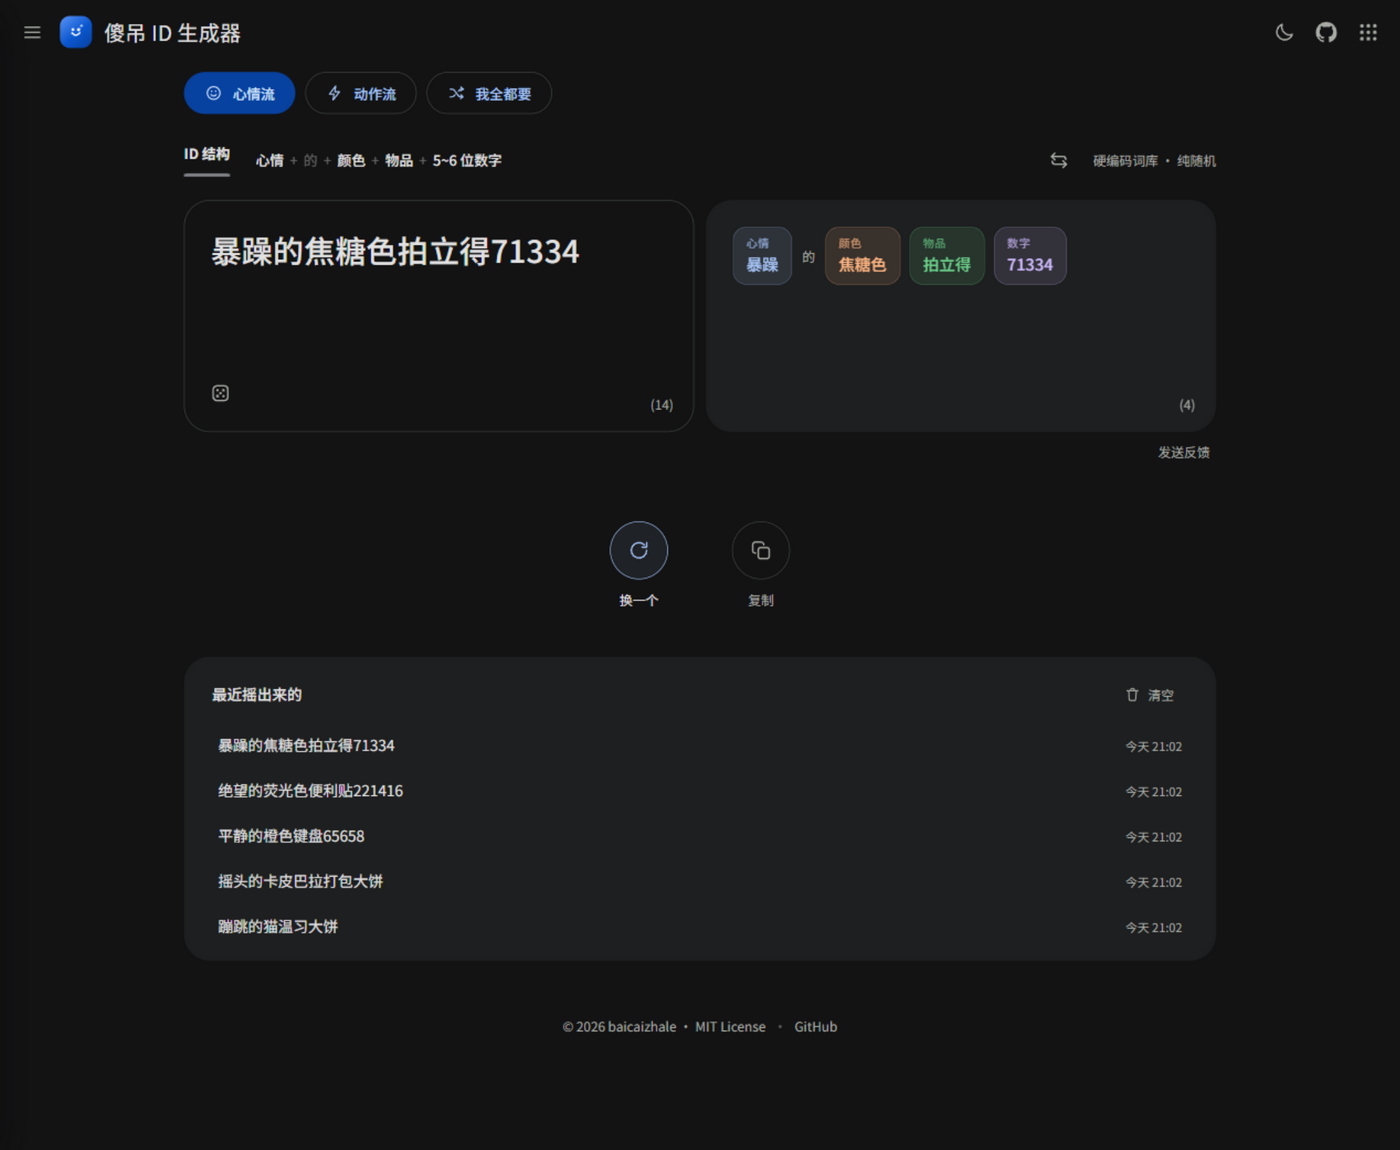
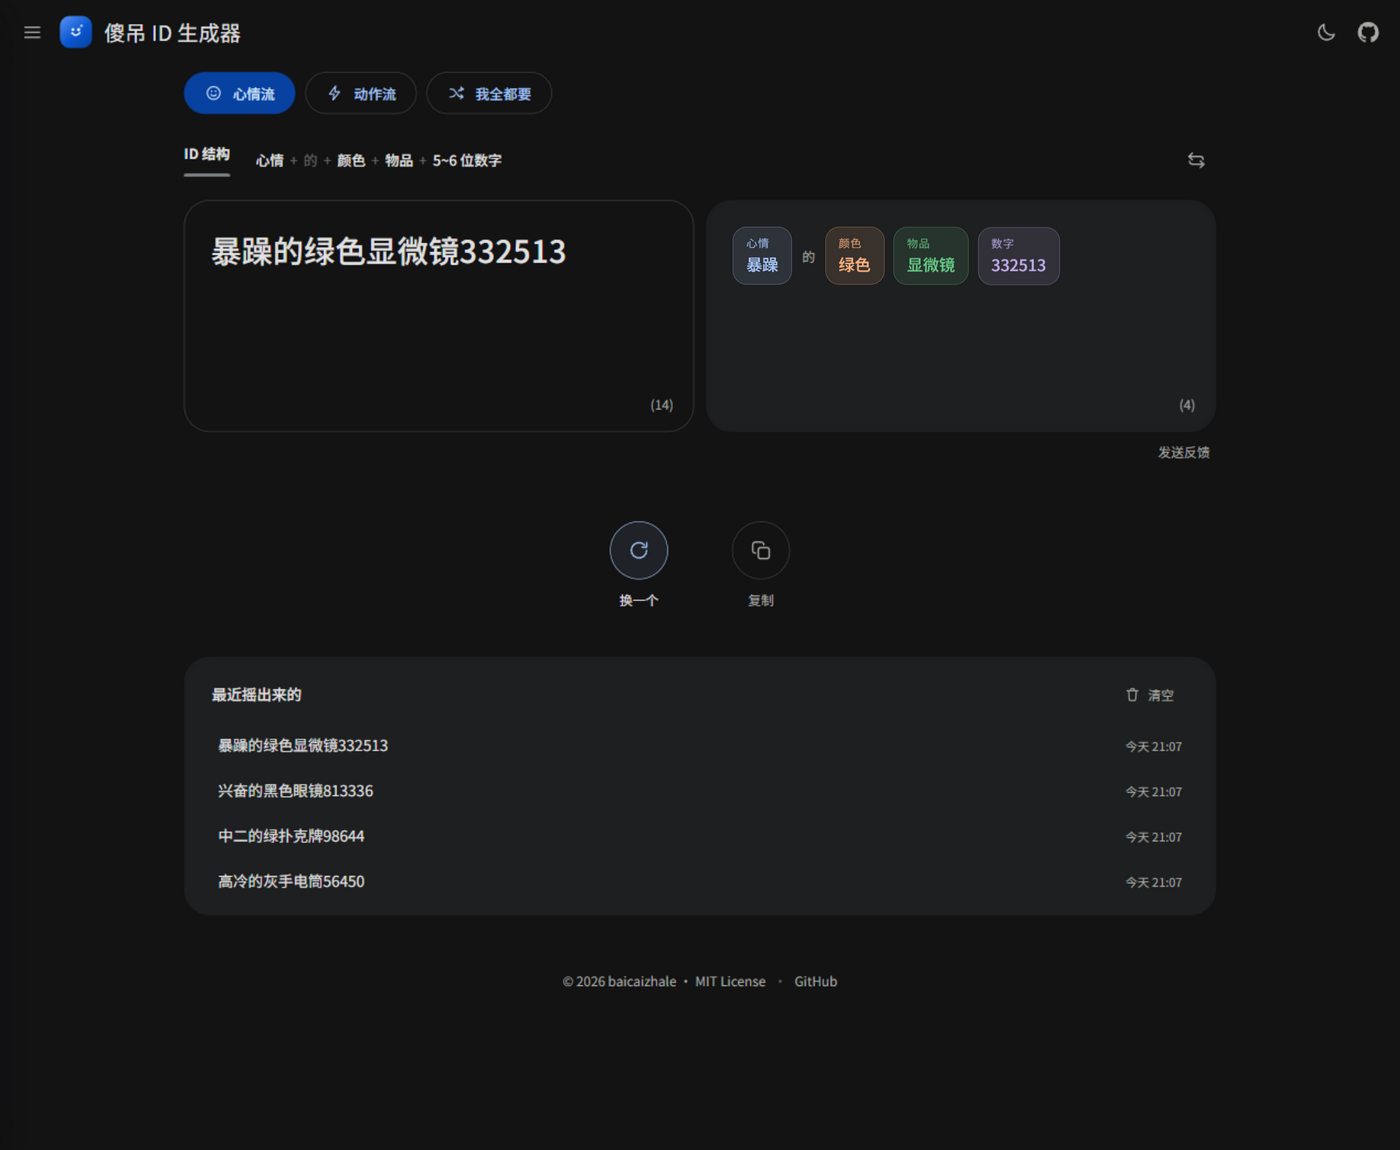
docs: 重拍预览图，README 同步历史条数与重摇方式

diff --git a/README.md b/README.md
@@ -72,9 +72,9 @@
 ## 特性
 
 - 🎲 **三个胶囊**：心情流 / 动作流 / 我全都要（每次从两种格式里随机抽一种）
-- ⌨ **顺手就能重摇**：点结果卡片、点骰子、按 `R` 或空格，都会重新生成（带代码乱序动画）
+- ⌨ **顺手就能重摇**：点结果卡片、按 `R` 或空格，都会重新生成（带代码乱序动画）
 - 📋 **一键复制**：优先 `navigator.clipboard`，不安全上下文自动退回 `execCommand`
-- 🕘 **本地历史**：最近 30 条存在 `localStorage`，页面底部默认展开，点一条即复制
+- 🕘 **本地历史**：最近 15 条存在 `localStorage`，页面底部默认展开，点一条即复制
 - 🌗 **两套主题**：默认深色，视觉参考 Google 翻译深色模式；可切浅色，选择会记住
 - 📱 **响应式**：窄屏自动单列，手机上也能摇
 - 🪶 **零依赖**：没有框架、没有打包、没有字体之外的第三方请求；图标全是手写内联 SVG
